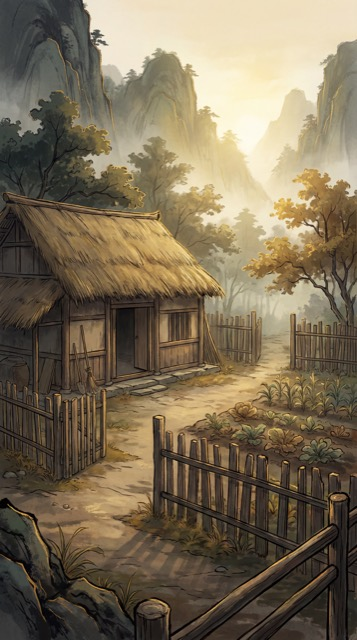
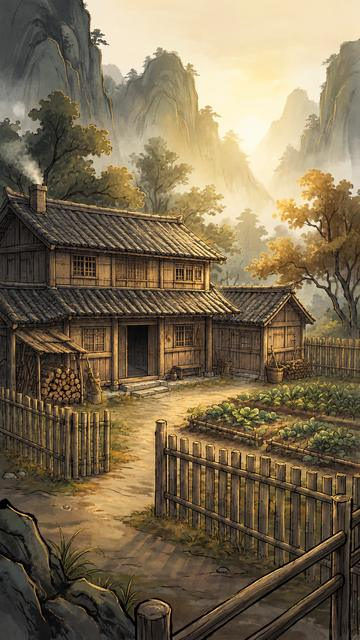
feat(game): give every home level its own illustration
Levels 1-3 shared the thatched-hut image and 4-6 the royal city, so
upgrading never changed the picture. Added 木屋 / 砖瓦宅 / 府邸 / 侯府
generated on Lovart with the hut as style reference (16 credits each);
the hut file is renamed to home_level1 so names match levels. A tiny
scribbled plaque on 侯府 was softened into a blank plaque.

diff --git a/src/data/gameData.ts b/src/data/gameData.ts
@@ -327,11 +327,11 @@ export const weapons: Weapon[] = [
 ];
 
 export const homeLevels: HomeLevel[] = [
-  { level: 1, name: '茅草屋', upgradeCost: 0, dailyIncome: 10, imagePath: 'assets/homes/home_level2.png' },
+  { level: 1, name: '茅草屋', upgradeCost: 0, dailyIncome: 10, imagePath: 'assets/homes/home_level1.png' },
   { level: 2, name: '木屋', upgradeCost: 500, dailyIncome: 30, imagePath: 'assets/homes/home_level2.png' },
-  { level: 3, name: '砖瓦宅', upgradeCost: 2000, dailyIncome: 80, imagePath: 'assets/homes/home_level2.png' },
-  { level: 4, name: '府邸', upgradeCost: 8000, dailyIncome: 200, imagePath: 'assets/homes/home_level6.png' },
-  { level: 5, name: '侯府', upgradeCost: 30000, dailyIncome: 500, imagePath: 'assets/homes/home_level6.png' },
+  { level: 3, name: '砖瓦宅', upgradeCost: 2000, dailyIncome: 80, imagePath: 'assets/homes/home_level3.png' },
+  { level: 4, name: '府邸', upgradeCost: 8000, dailyIncome: 200, imagePath: 'assets/homes/home_level4.png' },
+  { level: 5, name: '侯府', upgradeCost: 30000, dailyIncome: 500, imagePath: 'assets/homes/home_level5.png' },
   { level: 6, name: '王城', upgradeCost: 100000, dailyIncome: 1500, imagePath: 'assets/homes/home_level6.png' }
 ];
 

diff --git a/src/lib/assets.ts b/src/lib/assets.ts
@@ -1,5 +1,5 @@
 export const RAW_BASE = 'https://raw.githubusercontent.com/cditlimei/jiaye-tianxia/main';
-const OPTIMIZED_ASSET_VERSION = '20261003e';
+const OPTIMIZED_ASSET_VERSION = '20261003f';
 
 interface OptimizedImageConfig {
   prefix: string;
